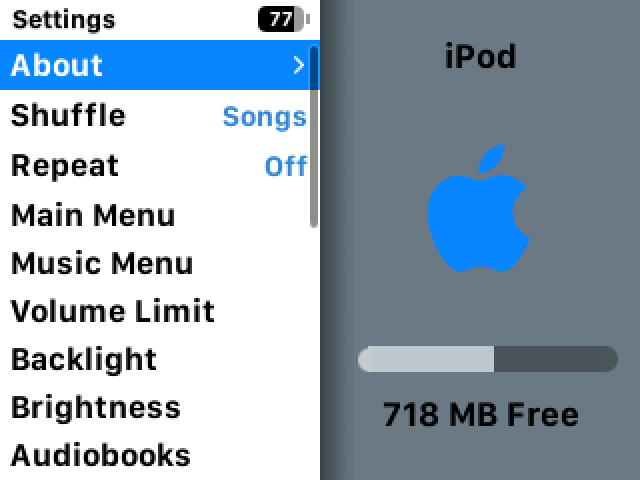
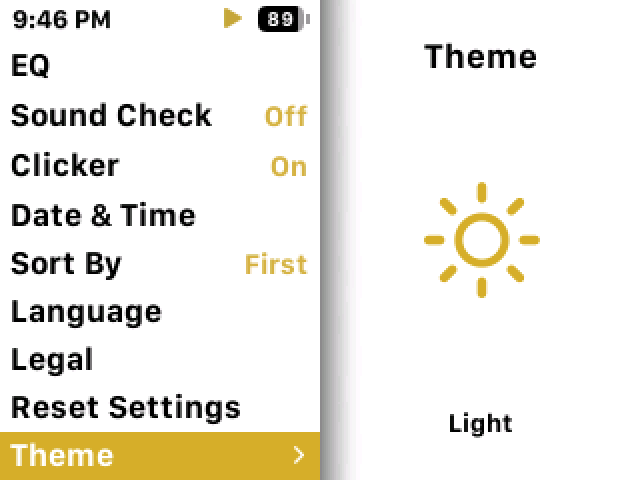
README: R124 screenshots, Modern style and Album accent; audit docs removed
- tour.webp, accents/tour/now-playing grids and the 2x single screens retaken from R124 in the
  emulator (EF-sfart-rsrc disk, current SF icon set): boot status, art pane, Album accent chosen
  live, live switch to Light. Stale singles removed.
- Feature list: Classic/Modern styles, Album accent, cover-coloured Now Playing, boot status line.
- Build command (README and CODEBASE section 13) with the full R124 flag set.
- docs/MODERN-AUDIT.md and docs/audit/ removed: the audit no longer matches the build.

diff --git a/README.md b/README.md
@@ -7,11 +7,14 @@ Apple's iPod Classic 7G firmware 2.0.4, extended with C code linked into the ima
   play counts and ratings survive renames
 - album art from cover files or embedded pictures, kept in one database file, also in the main
   menus' preview pane and the Now Playing row
-- Light, Dark and Automatic (sunset/sunrise) themes with accent colours, switched live
+- Light, Dark and Automatic (sunset/sunrise) themes, switched live, in Apple's Classic look or a
+  flat Modern style: SF fonts with kerning, SF icons, and every screen's chrome redone for both themes
+- eight accent colours, or Album: the accent follows the playing album's cover (grey covers keep a
+  chosen colour); Now Playing's title, progress bar and option bar take the cover's colour
 - Theme, Accent Colour, Library and Hearing rows in Apple's own Settings menu; Hearing adds a
   loudness limit, loudness compensation, crossfeed, ear-fatigue filters and a weekly sound dose
 - TV episodes and video playback
-- first frame 4.6 s after the bootloader, with each boot stage shown on screen
+- first frame 4.6 s after the bootloader, with a boot status line and progress bar on screen
 - a self-updater: drop a new image on the disk and restart
 - boots straight from the firmware partition through a Rockbox-derived bootloader; Apple's
   hibernate (instant-on) works with it
@@ -22,22 +25,24 @@ Every byte changed in Apple's image: [ospatch/HOOKS.md](ospatch/HOOKS.md).
 ## Screenshots
 
 A boot, then the main menu's album art, an album into Now Playing, the Now Playing row with the
-playing album's cover, and a live switch to Light:
+playing album's cover, Accent Colour > Album taking the cover's colour live, and a live switch to
+Light:
 
-![Boot, menus with album art, Now Playing and a live theme switch](docs/screenshots/tour.webp)
+![Boot, menus with album art, Now Playing, the Album accent and a live theme switch](docs/screenshots/tour.webp)
 
-The Modern style: flat bars, large accent icons, SF Compact text, covers from the library panning
-in the preview pane. Dark with five of the eight accent colours, and Light (bottom right):
+The Modern style: flat bars, large accent icons, SF text, covers from the library panning in the
+preview pane. Dark in four of the eight accent colours, Album (the playing cover's colour), and
+Light (bottom right):
 
-![The main menu in five accent colours and Light](docs/screenshots/accents.png)
+![The main menu in four accent colours, Album and Light](docs/screenshots/accents.png)
 
 Around the menus: the Music menu, Albums and Songs with their covers, Settings > Hearing, the main
-menu while a song plays, the boot stages, and Light with the Theme choices:
+menu while a song plays, a boot stage, and Light with the Theme choices:
 
-![Music, Albums, Songs, Hearing, the Now Playing row, the boot console, Light and Theme](docs/screenshots/tour.png)
+![Music, Albums, Songs, Hearing, the Now Playing row, the boot status, Light and Theme](docs/screenshots/tour.png)
 
-Now Playing: the album cover on a blurred copy of itself, the title in the accent and a thin
-progress bar that becomes a scrubber:
+Now Playing: the album cover on a blurred copy of itself, a thin progress bar that becomes a
+scrubber, the title and bar in a colour picked from the cover, and Light:
 
 ![Now Playing](docs/screenshots/now-playing.png)
 
@@ -63,7 +68,9 @@ PYTHONPATH=runtime/host python3 runtime/host/gen_settings.py ospatch/Firmware-35
     runtime/settings_data.h runtime/settings_data.json
 runtime/build.sh
 python3 ospatch/mkpatch18.py --base stock --image ospatch/Firmware-35.9.0.4.osos.dec \
-    --e runtime/e.bin --syms runtime/e.syms --out ospatch/osos-v18.dec --hooks all --governor-floor
+    --e runtime/e.bin --syms runtime/e.syms --out ospatch/osos-v18.dec --hooks all --governor-floor \
+    --ui-fast --ui-lazy --games-defer --heap-cache --fast-prims --ft-raster --sleep-delays \
+    --fast-libc --fast-dcache --fb-damage --art-pane --kern --dither --np-accent
 python3 ospatch/checkpatch.py ospatch/osos-v18.dec runtime/e.bin runtime/e.syms all
 ```
 

diff --git a/docs/CODEBASE.md b/docs/CODEBASE.md
@@ -330,7 +330,7 @@ added with a warning. `tools/qemu/videotest.py` checks playback end to end in th
   (`bmap_source`) from `Package.bin`, or from the set file for an SF icon. Only a live switch reads.
   `applied_key` per bitmap lets the UI-init apply skip what already holds its pixels. Colours
   (`COLR`, 4 bytes) keep heap copies.
-- Modern chrome (`docs/MODERN-AUDIT.md` lists what was found): `modern_fill` in theme.c is a
+- Modern chrome: `modern_fill` in theme.c is a
   table of bitmap id ranges with a Dark and a Light colour (or the accent, or the page), filled by
   `modern_late` after the theme lists so it wins over them; `modern_src` bitmaps are rebuilt from
   Apple's pixels each apply (the menu pane keeps Apple's drop shadow; calendar cells keep a quarter of
@@ -484,7 +484,8 @@ PYTHONPATH=runtime/host python3 runtime/host/gen_settings.py ospatch/Firmware-35
 runtime/build.sh
 python3 ospatch/mkpatch18.py --base stock --image ospatch/Firmware-35.9.0.4.osos.dec \
     --e runtime/e.bin --syms runtime/e.syms --out ospatch/osos-v18.dec --hooks all --governor-floor \
-    --ui-fast --ui-lazy --games-defer
+    --ui-fast --ui-lazy --games-defer --heap-cache --fast-prims --ft-raster --sleep-delays \
+    --fast-libc --fast-dcache --fb-damage --art-pane --kern --dither --np-accent
 python3 ospatch/checkpatch.py ospatch/osos-v18.dec runtime/e.bin runtime/e.syms all
 ```
 
